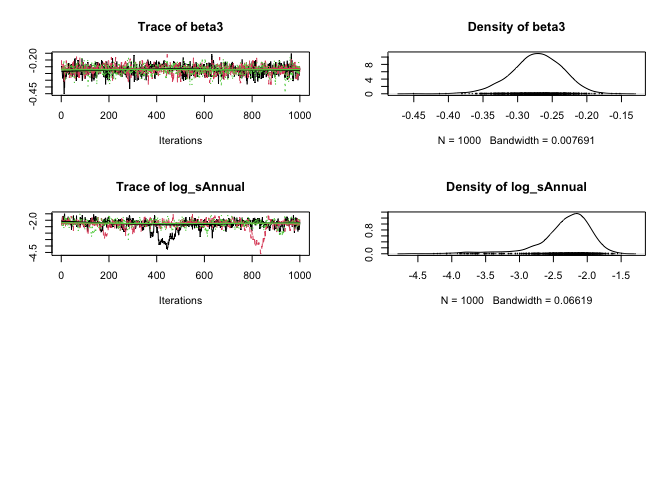
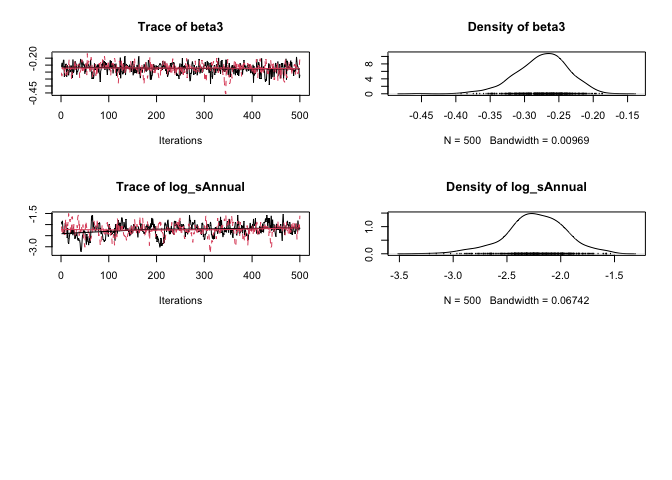
render README

diff --git a/README.md b/README.md
@@ -1,4 +1,3 @@
-
 <!-- README.md is generated from README.Rmd. Please edit that file -->
 
 # smbr
@@ -22,125 +21,123 @@ MIT](https://img.shields.io/badge/License-MIT-green.svg)](https://opensource.org
 
 ## Demonstration
 
-``` r
-library(bauw)
-library(ggplot2)
-library(magrittr)
-library(embr)
-library(smbr)
-```
+    library(bauw)
+    library(ggplot2)
+    library(magrittr)
+    library(embr)
+    library(smbr)
 
-``` r
-# define model in Stan language
-model <- model("
-  data {
-      int nAnnual;
-      int nObs;
-      int Annual[nObs];
-      int Pairs[nObs];
-      real Year[nObs];
-  }
-  parameters {
-      vector[nAnnual] bAnnual;
-      real log_sAnnual;
-      real alpha;
-      real beta1;
-      real beta2;
-      real beta3;
-  }
-  transformed parameters {
-    real sAnnual;
-    sAnnual = exp(log_sAnnual);
-  }
-  model {
-      vector[nObs] ePairs;
-
-      log_sAnnual ~ normal(0, 10);
-      bAnnual ~ normal(0, sAnnual);
-
-      alpha ~ normal(0, 10);
-      beta1 ~ normal(0, 10);
-      beta2 ~ normal(0, 10);
-      beta3 ~ normal(0, 10);
-
-      for (i in 1:nObs) {
-        ePairs[i] = exp(alpha + beta1 * Year[i] + beta2 * Year[i]^2 +
-                      beta3 * Year[i]^3 + bAnnual[Annual[i]]);
+    # define model in Stan language
+    model <- model("
+      data {
+          int nAnnual;
+          int nObs;
+          int Annual[nObs];
+          int Pairs[nObs];
+          real Year[nObs];
       }
-      target += poisson_lpmf(Pairs | ePairs);
-  }")
-#> Warning: The `x` argument of `model()` character() as of embr 0.0.1.9036.
-#> ℹ Please use the `code` argument instead.
-#> ℹ Passing a string to model() is deprecated. Use model(code = ...) or
-#>   model(mb_code("..."), ...) instead.
-#> This warning is displayed once every 8 hours.
-#> Call `lifecycle::last_lifecycle_warnings()` to see where this warning was
-#> generated.
+      parameters {
+          vector[nAnnual] bAnnual;
+          real log_sAnnual;
+          real alpha;
+          real beta1;
+          real beta2;
+          real beta3;
+      }
+      transformed parameters {
+        real sAnnual;
+        sAnnual = exp(log_sAnnual);
+      }
+      model {
+          vector[nObs] ePairs;
 
-# add R code to calculate derived parameters
-model %<>% update_model(new_expr = "
-  for (i in 1:length(Pairs)) {
-    prediction[i] <- exp(alpha + beta1 * Year[i] + beta2 * Year[i]^2 +
-                       beta3 * Year[i]^3 + bAnnual[Annual[i]])
-  }
-")
+          log_sAnnual ~ normal(0, 10);
+          bAnnual ~ normal(0, sAnnual);
 
-# define data types and center year
-model %<>% update_model(
-  select_data = list(
-    "Pairs" = integer(), "Year*" = integer(),
-    Annual = factor()
-  ),
-  derived = "sAnnual",
-  random_effects = list(bAnnual = "Annual")
-)
+          alpha ~ normal(0, 10);
+          beta1 ~ normal(0, 10);
+          beta2 ~ normal(0, 10);
+          beta3 ~ normal(0, 10);
 
-data <- bauw::peregrine
-data$Annual <- factor(data$Year)
+          for (i in 1:nObs) {
+            ePairs[i] = exp(alpha + beta1 * Year[i] + beta2 * Year[i]^2 +
+                          beta3 * Year[i]^3 + bAnnual[Annual[i]]);
+          }
+          target += poisson_lpmf(Pairs | ePairs);
+      }")
+    #> Warning: The `x` argument of `model()` character() as of embr 0.0.1.9036.
+    #> ℹ Please use the `code` argument instead.
+    #> ℹ Passing a string to model() is deprecated. Use model(code = ...) or model(mb_code("..."), ...) instead.
+    #> This warning is displayed once every 8 hours.
+    #> Call `lifecycle::last_lifecycle_warnings()` to see where this warning was generated.
 
-set.seed(42)
+    # add R code to calculate derived parameters
+    model %<>% update_model(new_expr = "
+      for (i in 1:length(Pairs)) {
+        prediction[i] <- exp(alpha + beta1 * Year[i] + beta2 * Year[i]^2 +
+                           beta3 * Year[i]^3 + bAnnual[Annual[i]])
+      }
+    ")
 
-# analyse
-analysis <- analyse(model, data = data, seed = 3L, glance = FALSE)
+    # define data types and center year
+    model %<>% update_model(
+      select_data = list(
+        "Pairs" = integer(), "Year*" = integer(),
+        Annual = factor()
+      ),
+      derived = "sAnnual",
+      random_effects = list(bAnnual = "Annual")
+    )
 
-# coefficient table
-coef(analysis, simplify = TRUE)
-#> # A tibble: 5 × 5
-#>   term        estimate   lower   upper svalue
-#>   <term>         <dbl>   <dbl>   <dbl>  <dbl>
-#> 1 alpha         4.26    4.18    4.34   11.6  
-#> 2 beta1         1.19    1.06    1.35   11.6  
-#> 3 beta2        -0.0176 -0.0771  0.0435  0.936
-#> 4 beta3        -0.271  -0.349  -0.206  11.6  
-#> 5 log_sAnnual  -2.25   -3.56   -1.76   11.6
+    data <- bauw::peregrine
+    data$Annual <- factor(data$Year)
 
-# trace plots
-plot(analysis)
-```
+    set.seed(42)
 
-![](tools/README-unnamed-chunk-3-1.png)<!-- -->![](tools/README-unnamed-chunk-3-2.png)<!-- -->
+    # analyse
+    analysis <- analyse(model, data = data, seed = 3L, glance = FALSE)
 
-``` r
-# make predictions by varying year with other predictors including the random effect of Annual held constant
-year <- predict(analysis, new_data = "Year")
+    # coefficient table
+    coef(analysis, simplify = TRUE)
+    #> # A tibble: 5 × 5
+    #>   term        estimate   lower   upper svalue
+    #>   <term>         <dbl>   <dbl>   <dbl>  <dbl>
+    #> 1 alpha         4.26    4.18    4.34    9.97 
+    #> 2 beta1         1.19    1.07    1.36    9.97 
+    #> 3 beta2        -0.0191 -0.0777  0.0393  0.976
+    #> 4 beta3        -0.272  -0.356  -0.208   9.97 
+    #> 5 log_sAnnual  -2.23   -2.87   -1.70    9.97
 
-# plot those predictions
-ggplot(data = year, aes(x = Year, y = estimate)) +
-  geom_point(data = bauw::peregrine, aes(y = Pairs)) +
-  geom_line() +
-  geom_line(aes(y = lower), linetype = "dotted") +
-  geom_line(aes(y = upper), linetype = "dotted") +
-  expand_limits(y = 0)
-```
+    # trace plots
+    plot(analysis)
+    #> Warning in rep(col, length = nchain(x)): partial argument match of 'length' to 'length.out'
+    #> Warning in rep(col, length = nchain(x)): partial argument match of 'length' to 'length.out'
+    #> Warning in rep(col, length = nchain(x)): partial argument match of 'length' to 'length.out'
 
-![](tools/README-unnamed-chunk-4-1.png)<!-- -->
+![](tools/README-unnamed-chunk-3-1.png)
+
+    #> Warning in rep(col, length = nchain(x)): partial argument match of 'length' to 'length.out'
+    #> Warning in rep(col, length = nchain(x)): partial argument match of 'length' to 'length.out'
+
+![](tools/README-unnamed-chunk-3-2.png)
+
+    # make predictions by varying year with other predictors including the random effect of Annual held constant
+    year <- predict(analysis, new_data = "Year")
+
+    # plot those predictions
+    ggplot(data = year, aes(x = Year, y = estimate)) +
+      geom_point(data = bauw::peregrine, aes(y = Pairs)) +
+      geom_line() +
+      geom_line(aes(y = lower), linetype = "dotted") +
+      geom_line(aes(y = upper), linetype = "dotted") +
+      expand_limits(y = 0)
+
+![](tools/README-unnamed-chunk-4-1.png)
 
 ## Installation
 
-``` r
-# install.packages("devtools")
-devtools::install_github("poissonconsulting/smbr")
-```
+    # install.packages("devtools")
+    devtools::install_github("poissonconsulting/smbr")
 
 ## Citation
 
